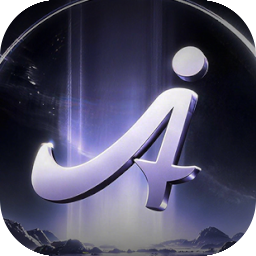
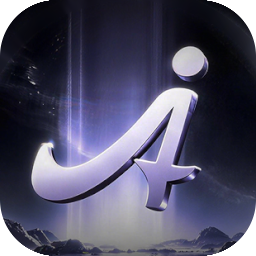
build(1.0.19): 两架构 SPK 与套件源
x86_64 77306abe3a6242d4f588ae8a9386d967
armv8  23868704b120e8a941ccff7dc04fc627

二进制 VCS 状态：vcs.revision=699284e，vcs.modified=false。
包内 icon_256/PACKAGE_ICON_256 圆环打分 -22.7（原图 +117.8），白圈已消除。

Changed region(s): [[0.0, 0.0, 0.3438, 0.2812], [0.6875, 0.0, 1.0, 0.25]]

diff --git a/docs/index.html b/docs/index.html
@@ -61,6 +61,8 @@
   <tr><td>Intel / AMD 64 位机型（apollolake、avoton、braswell、broadwell、bromolow、cedarview、coffeelake、denverton、geminilake、grantley、kvmx64、purley、skylaked、v1000 等）</td><td><code>https://kosje.github.io/agnes-hub-go-DSM/catalog.json</code></td></tr>
   <tr><td>Intel / AMD 64 位机型（apollolake、avoton、braswell、broadwell、bromolow、cedarview、coffeelake、denverton、geminilake、grantley、kvmx64、purley、skylaked、v1000 等）</td><td><code>https://kosje.github.io/agnes-hub-go-DSM/catalog.json</code></td></tr>
   <tr><td>Intel / AMD 64 位机型（apollolake、avoton、braswell、broadwell、bromolow、cedarview、coffeelake、denverton、geminilake、grantley、kvmx64、purley、skylaked、v1000 等）</td><td><code>https://kosje.github.io/agnes-hub-go-DSM/catalog.json</code></td></tr>
+  <tr><td>Intel / AMD 64 位机型（apollolake、avoton、braswell、broadwell、bromolow、cedarview、coffeelake、denverton、geminilake、grantley、kvmx64、purley、skylaked、v1000 等）</td><td><code>https://kosje.github.io/agnes-hub-go-DSM/catalog.json</code></td></tr>
+  <tr><td>ARM64 机型（rtd1296、rtd1619、rtd1619b、armada37xx，如 DS223 / DS423 系列）</td><td><code>https://kosje.github.io/agnes-hub-go-DSM/catalog-armv8.json</code></td></tr>
   <tr><td>ARM64 机型（rtd1296、rtd1619、rtd1619b、armada37xx，如 DS223 / DS423 系列）</td><td><code>https://kosje.github.io/agnes-hub-go-DSM/catalog-armv8.json</code></td></tr>
   <tr><td>ARM64 机型（rtd1296、rtd1619、rtd1619b、armada37xx，如 DS223 / DS423 系列）</td><td><code>https://kosje.github.io/agnes-hub-go-DSM/catalog-armv8.json</code></td></tr>
   <tr><td>ARM64 机型（rtd1296、rtd1619、rtd1619b、armada37xx，如 DS223 / DS423 系列）</td><td><code>https://kosje.github.io/agnes-hub-go-DSM/catalog-armv8.json</code></td></tr>
@@ -102,6 +104,7 @@
   <tr><td>agnes-hub</td><td>1.0.16</td><td>armv8</td><td>3.70 MB</td><td><code>c49534afddaba3d775dda220d24722b6</code></td></tr>
   <tr><td>agnes-hub</td><td>1.0.17</td><td>armv8</td><td>3.71 MB</td><td><code>feb8d932027ad5431c38b741d744641d</code></td></tr>
   <tr><td>agnes-hub</td><td>1.0.18</td><td>armv8</td><td>3.71 MB</td><td><code>56e8b962f269b52e436dd99f81e5c606</code></td></tr>
+  <tr><td>agnes-hub</td><td>1.0.19</td><td>armv8</td><td>3.70 MB</td><td><code>23868704b120e8a941ccff7dc04fc627</code></td></tr>
   <tr><td>agnes-hub</td><td>1.0.11-0001</td><td>x86_64</td><td>3.49 MB</td><td><code>fb521b1071cac981c43232a4d594627f</code></td></tr>
   <tr><td>agnes-hub</td><td>1.0.11-0002</td><td>x86_64</td><td>3.35 MB</td><td><code>f7e6723a662716a839807827c4a716bc</code></td></tr>
   <tr><td>agnes-hub</td><td>1.0.11-0003</td><td>x86_64</td><td>3.98 MB</td><td><code>090c3b997699659c9f04e7ee56adfb01</code></td></tr>
@@ -113,6 +116,7 @@
   <tr><td>agnes-hub</td><td>1.0.16</td><td>x86_64</td><td>4.04 MB</td><td><code>762cf89e2c9b929cffa05c02718b547b</code></td></tr>
   <tr><td>agnes-hub</td><td>1.0.17</td><td>x86_64</td><td>4.04 MB</td><td><code>f943bad9f5defb958962b06e2abab641</code></td></tr>
   <tr><td>agnes-hub</td><td>1.0.18</td><td>x86_64</td><td>4.05 MB</td><td><code>7f3e9b3d2454a2131195b153e1366f00</code></td></tr>
+  <tr><td>agnes-hub</td><td>1.0.19</td><td>x86_64</td><td>4.03 MB</td><td><code>77306abe3a6242d4f588ae8a9386d967</code></td></tr>
 </table>
 
 <h2>安装后</h2>
@@ -142,6 +146,7 @@
 <a href="https://kosje.github.io/agnes-hub-go-DSM/agnes-hub-armv8-1.0.16.spk"><code>agnes-hub-armv8-1.0.16.spk</code></a>（armv8，3.70 MB）<br>
 <a href="https://kosje.github.io/agnes-hub-go-DSM/agnes-hub-armv8-1.0.17.spk"><code>agnes-hub-armv8-1.0.17.spk</code></a>（armv8，3.71 MB）<br>
 <a href="https://kosje.github.io/agnes-hub-go-DSM/agnes-hub-armv8-1.0.18.spk"><code>agnes-hub-armv8-1.0.18.spk</code></a>（armv8，3.71 MB）<br>
+<a href="https://kosje.github.io/agnes-hub-go-DSM/agnes-hub-armv8-1.0.19.spk"><code>agnes-hub-armv8-1.0.19.spk</code></a>（armv8，3.70 MB）<br>
 <a href="https://kosje.github.io/agnes-hub-go-DSM/agnes-hub-x86_64-1.0.11-0001.spk"><code>agnes-hub-x86_64-1.0.11-0001.spk</code></a>（x86_64，3.49 MB）<br>
 <a href="https://kosje.github.io/agnes-hub-go-DSM/agnes-hub-x86_64-1.0.11-0002.spk"><code>agnes-hub-x86_64-1.0.11-0002.spk</code></a>（x86_64，3.35 MB）<br>
 <a href="https://kosje.github.io/agnes-hub-go-DSM/agnes-hub-x86_64-1.0.11-0003.spk"><code>agnes-hub-x86_64-1.0.11-0003.spk</code></a>（x86_64，3.98 MB）<br>
@@ -152,7 +157,8 @@
 <a href="https://kosje.github.io/agnes-hub-go-DSM/agnes-hub-x86_64-1.0.15.spk"><code>agnes-hub-x86_64-1.0.15.spk</code></a>（x86_64，4.04 MB）<br>
 <a href="https://kosje.github.io/agnes-hub-go-DSM/agnes-hub-x86_64-1.0.16.spk"><code>agnes-hub-x86_64-1.0.16.spk</code></a>（x86_64，4.04 MB）<br>
 <a href="https://kosje.github.io/agnes-hub-go-DSM/agnes-hub-x86_64-1.0.17.spk"><code>agnes-hub-x86_64-1.0.17.spk</code></a>（x86_64，4.04 MB）<br>
-<a href="https://kosje.github.io/agnes-hub-go-DSM/agnes-hub-x86_64-1.0.18.spk"><code>agnes-hub-x86_64-1.0.18.spk</code></a>（x86_64，4.05 MB）</p>
+<a href="https://kosje.github.io/agnes-hub-go-DSM/agnes-hub-x86_64-1.0.18.spk"><code>agnes-hub-x86_64-1.0.18.spk</code></a>（x86_64，4.05 MB）<br>
+<a href="https://kosje.github.io/agnes-hub-go-DSM/agnes-hub-x86_64-1.0.19.spk"><code>agnes-hub-x86_64-1.0.19.spk</code></a>（x86_64，4.03 MB）</p>
 <p class="sub">这些链接指向本站（GitHub Pages），不经过 GitHub Release 的跳转 ——
 国内网络访问 Release 下载地址常会失败。</p>
 
